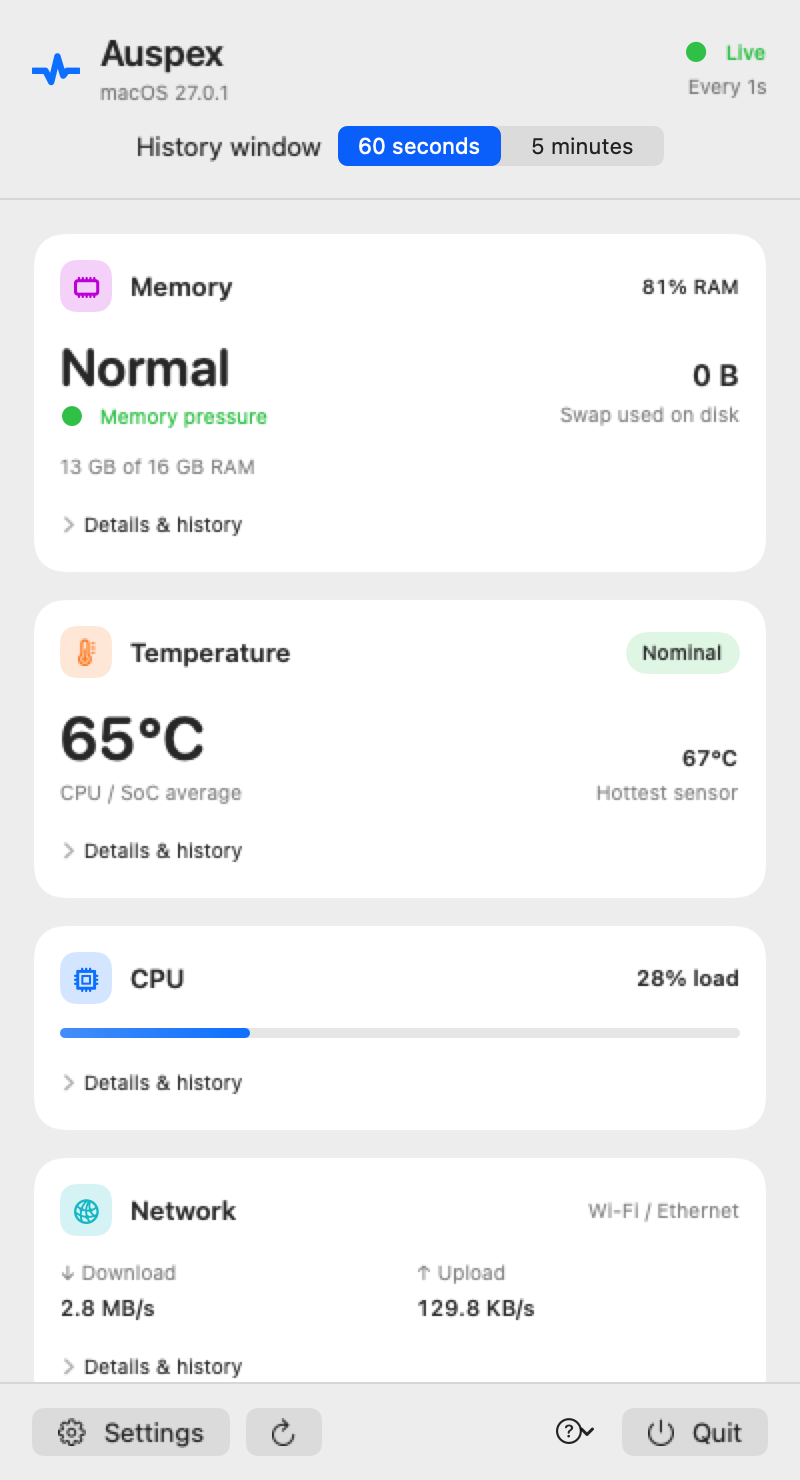
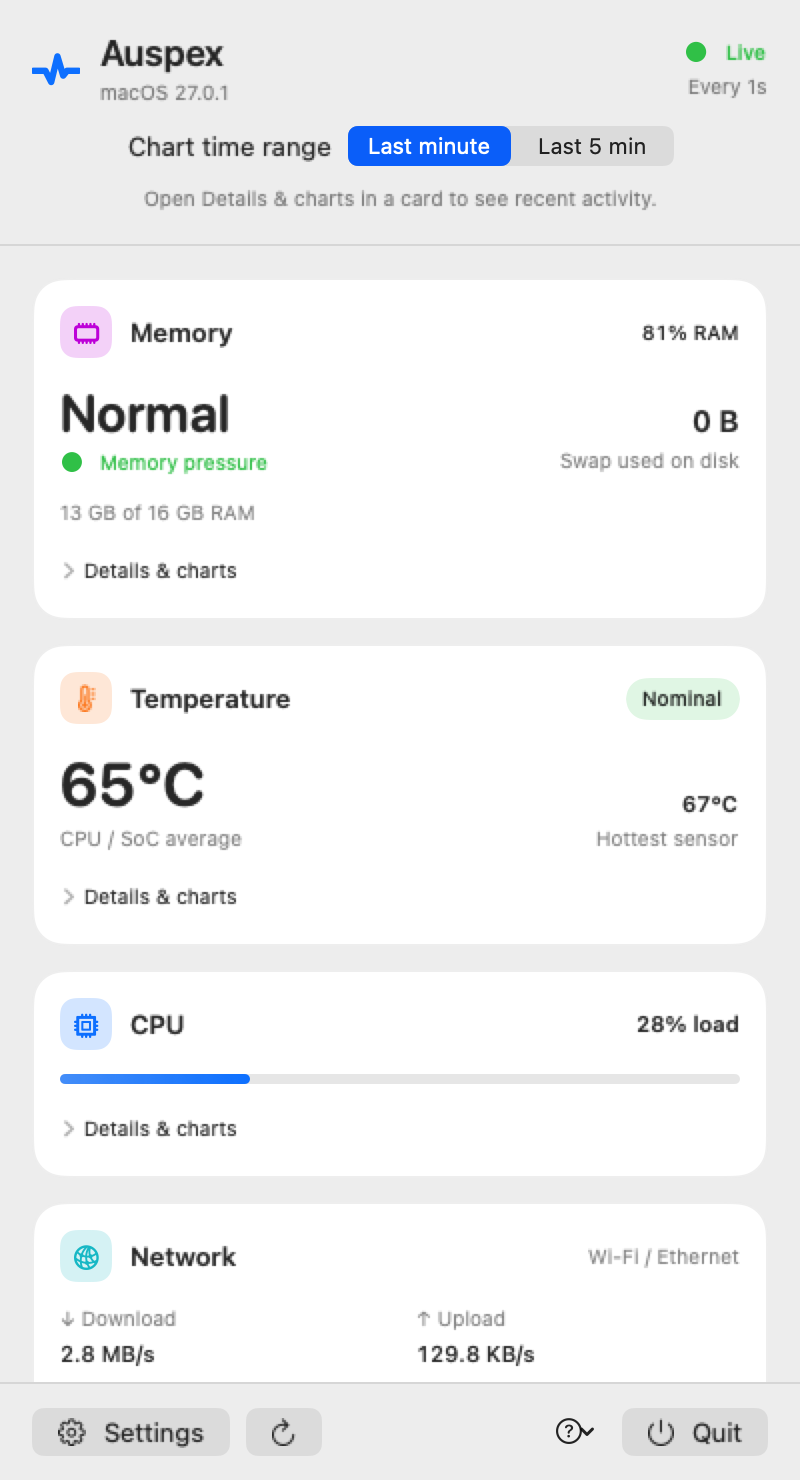
fix: synchronize window appearance and clarify chart controls
The cached menu panel could retain its native dark appearance after
Light was selected in Settings. Apply appearance within each content
root to both its SwiftUI environment and owning native window. Clear
native overrides for Follow macOS, remove competing presentation
preferences, and keep the menu bar label adaptive.

Replace History window with Chart time range and explain the chart
location and collection gaps. Verify live changes in existing panel
and Settings hosts under both inherited appearances, and retain the
steady-versus-refreshing visual regression. Release 1.3.2, build 7.

diff --git a/Tests/AppearanceTests.swift b/Tests/AppearanceTests.swift
@@ -1,0 +1,66 @@
+import AppKit
+import SwiftUI
+
+enum AppearanceTests {
+    @MainActor
+    static func run(monitor: SystemMonitor, preferences: PanelPreferences) {
+        let original = NSApp.appearance
+        defer { NSApp.appearance = original; monitor.appearance = .system }
+
+        for inherited in [NSAppearance.Name.darkAqua, .aqua] {
+            NSApp.appearance = NSAppearance(named: inherited)
+            monitor.appearance = .system
+            // Existing native hosts remain offscreen for this development test.
+            let panel = NSPanel(contentRect: NSRect(x: -10_000, y: -10_000, width: 400, height: 740),
+                                styleMask: [.nonactivatingPanel], backing: .buffered, defer: false)
+            let settings = NSWindow(contentRect: NSRect(x: -10_000, y: -10_000, width: 480, height: 700),
+                                    styleMask: [.titled, .closable], backing: .buffered, defer: false)
+            panel.isReleasedWhenClosed = false
+            settings.isReleasedWhenClosed = false
+            panel.appearance = NSAppearance(named: inherited)
+            settings.appearance = NSAppearance(named: inherited)
+            let host = NSHostingView(rootView: PanelView().environment(monitor).environment(preferences))
+            let settingsHost = NSHostingView(rootView: SettingsView().environment(monitor).environment(preferences))
+            panel.contentView = host
+            settings.contentView = settingsHost
+            defer { panel.close(); settings.close() }
+
+            for mode in [AppAppearance.light, .dark, .light, .system] {
+                monitor.appearance = mode
+                host.layoutSubtreeIfNeeded()
+                settingsHost.layoutSubtreeIfNeeded()
+                RunLoop.main.run(until: Date().addingTimeInterval(0.1))
+                host.layoutSubtreeIfNeeded()
+                settingsHost.layoutSubtreeIfNeeded()
+                let expected: NSAppearance.Name = mode == .system ? inherited : mode == .light ? .aqua : .darkAqua
+                for window in [panel as NSWindow, settings] {
+                    let actual = window.effectiveAppearance.bestMatch(from: [.aqua, .darkAqua])
+                    precondition(actual == expected,
+                                 "Selected \(mode.label), but an existing window still uses \(actual?.rawValue ?? "unknown")")
+                    if mode == .system {
+                        precondition(window.appearance == nil, "Follow macOS must clear the explicit window override")
+                    }
+                }
+                for view in [host as NSView, settingsHost] {
+                    guard let bitmap = view.bitmapImageRepForCachingDisplay(in: view.bounds) else {
+                        preconditionFailure("Appearance test could not capture the content")
+                    }
+                    view.cacheDisplay(in: view.bounds, to: bitmap)
+                    var luminance: CGFloat = 0
+                    var count: CGFloat = 0
+                    for x in stride(from: 0, to: bitmap.pixelsWide, by: max(1, bitmap.pixelsWide / 16)) {
+                        for y in stride(from: 0, to: bitmap.pixelsHigh, by: max(1, bitmap.pixelsHigh / 16)) {
+                            guard let color = bitmap.colorAt(x: x, y: y)?.usingColorSpace(.sRGB) else { continue }
+                            luminance += color.redComponent * 0.2126 + color.greenComponent * 0.7152 + color.blueComponent * 0.0722
+                            count += 1
+                        }
+                    }
+                    let average = luminance / max(1, count)
+                    precondition(expected == .aqua ? average > 0.55 : average < 0.45,
+                                 "Content does not match selected appearance: \(mode.label), brightness \(average)")
+                }
+                print("PASS: existing panel and Settings switch to \(mode.label) (system \(inherited.rawValue))")
+            }
+        }
+    }
+}

diff --git a/Sources/Views/PanelView.swift b/Sources/Views/PanelView.swift
@@ -49,6 +49,7 @@ struct PanelView: View {
             footer
         }
         .frame(width: 400, height: panelHeight)
+        .appWindowAppearance(monitor.appearance)
         .background {
             if reduceTransparency { Color(nsColor: .windowBackgroundColor) }
             else { Rectangle().fill(.regularMaterial) }
@@ -73,11 +74,14 @@ struct PanelView: View {
                     Text(monitor.samplingDescription).font(.caption).foregroundStyle(.secondary)
                 }
             }
-            Picker("History window", selection: $window) {
-                Text("60 seconds").tag(HistoryWindow.minute)
-                Text("5 minutes").tag(HistoryWindow.fiveMinutes)
+            Picker("Chart time range", selection: $window) {
+                Text("Last minute").tag(HistoryWindow.minute)
+                Text("Last 5 min").tag(HistoryWindow.fiveMinutes)
             }.pickerStyle(.segmented).controlSize(.small)
-                .help("Time span for expanded trend charts. Gaps indicate periods without readings.")
+                .help("Choose how far back the charts show. Recording pauses when the panel closes.")
+            Text("Open Details & charts in a card to see recent activity.")
+                .font(.caption).foregroundStyle(.secondary)
+                .fixedSize(horizontal: false, vertical: true)
         }.padding(16)
     }
 
@@ -104,10 +108,17 @@ struct PanelView: View {
     }
 
     private func details<Content: View>(_ card: PanelCard, @ViewBuilder content: @escaping () -> Content) -> some View {
-        DisclosureGroup("Details & history", isExpanded: Binding(get: { expanded.contains(card) }, set: {
+        DisclosureGroup(card == .battery ? "Details" : "Details & charts", isExpanded: Binding(get: { expanded.contains(card) }, set: {
             if $0 { expanded.insert(card) } else { expanded.remove(card) }
         })) {
-            VStack(alignment: .leading, spacing: 12, content: content).padding(.top, 10)
+            VStack(alignment: .leading, spacing: 12) {
+                if card != .battery {
+                    Text("Readings are recorded while this panel is open. Gaps show pauses.")
+                        .font(.caption).foregroundStyle(.secondary)
+                        .fixedSize(horizontal: false, vertical: true)
+                }
+                content()
+            }.padding(.top, 10)
         }.font(.caption)
     }
 

diff --git a/Sources/Views/WindowAppearance.swift b/Sources/Views/WindowAppearance.swift
@@ -1,0 +1,63 @@
+import AppKit
+import SwiftUI
+
+/// MenuBarExtra can keep its native host appearance after a SwiftUI preference
+/// changes. Apply the choice to both the content and its owning native window.
+private struct WindowAppearanceModifier: ViewModifier {
+    let selection: AppAppearance
+    @Environment(\.colorScheme) private var inheritedScheme
+
+    func body(content: Content) -> some View {
+        content
+            .environment(\.colorScheme, selection.colorScheme ?? inheritedScheme)
+            .background(WindowAppearanceBridge(selection: selection))
+    }
+}
+
+private struct WindowAppearanceBridge: NSViewRepresentable {
+    let selection: AppAppearance
+
+    func makeNSView(context: Context) -> AppearanceView {
+        AppearanceView(selection: selection)
+    }
+
+    func updateNSView(_ view: AppearanceView, context: Context) {
+        view.selection = selection
+        view.applyAppearance()
+    }
+
+    final class AppearanceView: NSView {
+        var selection: AppAppearance
+
+        init(selection: AppAppearance) {
+            self.selection = selection
+            super.init(frame: .zero)
+        }
+
+        required init?(coder: NSCoder) { fatalError("init(coder:) is unavailable") }
+
+        override func viewDidMoveToWindow() {
+            super.viewDidMoveToWindow()
+            applyAppearance()
+        }
+
+        func applyAppearance() {
+            let name: NSAppearance.Name?
+            switch selection {
+            case .system: name = nil
+            case .light: name = .aqua
+            case .dark: name = .darkAqua
+            }
+            if appearance?.name != name { appearance = name.flatMap(NSAppearance.init(named:)) }
+            if let window, window.appearance?.name != name {
+                window.appearance = name.flatMap(NSAppearance.init(named:))
+            }
+        }
+    }
+}
+
+extension View {
+    func appWindowAppearance(_ selection: AppAppearance) -> some View {
+        modifier(WindowAppearanceModifier(selection: selection))
+    }
+}

diff --git a/Sources/Views/SettingsView.swift b/Sources/Views/SettingsView.swift
@@ -56,7 +56,7 @@ struct SettingsView: View {
             }
 
             Section {
-                Text("Show the readings you use most and move them into your preferred order. Expand a card in the panel for details and history.")
+                Text("Show the readings you use most and move them into your preferred order. Open Details & charts in a card to see recent activity.")
                     .font(.caption).foregroundStyle(.secondary).fixedSize(horizontal: false, vertical: true)
                 ForEach(preferences.cards) { card in
                     HStack(spacing: 12) {
@@ -119,6 +119,7 @@ struct SettingsView: View {
             }
         }
         .formStyle(.grouped)
+        .appWindowAppearance(monitor.appearance)
         .frame(width: 480, height: min(700, max(360, (NSScreen.main?.visibleFrame.height ?? 800) - 80)))
         .navigationTitle("Auspex Settings")
         .onAppear { syncLoginStatus() }

diff --git a/Tests/VisualTests.swift b/Tests/VisualTests.swift
@@ -85,6 +85,7 @@ struct VisualTests {
                     .environment(\.colorScheme, .light).preferredColorScheme(.light),
                    size: CGSize(width: 400, height: 740), path: "build/verification/storage-classification.png")
         storage.menuBarMetric = .temperature
+        AppearanceTests.run(monitor: storage, preferences: preferences)
         try render(MenuBarLabelView(monitor: storage).font(.system(size: 13))
                     .frame(width: 90, height: 24).environment(\.colorScheme, .dark).preferredColorScheme(.dark),
                    size: CGSize(width: 90, height: 24), path: "build/verification/temperature-menu.png")

diff --git a/Sources/AuspexApp.swift b/Sources/AuspexApp.swift
@@ -30,7 +30,6 @@ struct AuspexApp: App {
             PanelView()
                 .environment(monitor)
                 .environment(panelPreferences)
-                .preferredColorScheme(monitor.appearance.colorScheme)
                 .onAppear { monitor.startActive() }
                 .onDisappear { monitor.goIdle() }
         } label: {
@@ -42,7 +41,6 @@ struct AuspexApp: App {
             SettingsView()
                 .environment(monitor)
                 .environment(panelPreferences)
-                .preferredColorScheme(monitor.appearance.colorScheme)
         }
     }
 }

diff --git a/Sources/Services/ReopenHandler.swift b/Sources/Services/ReopenHandler.swift
@@ -25,8 +25,7 @@ final class ReopenHandler: NSObject, NSApplicationDelegate {
 }
 
 struct ReopenSettingsContent: View {
-    @Environment(SystemMonitor.self) private var monitor
     var body: some View {
-        SettingsView().preferredColorScheme(monitor.appearance.colorScheme)
+        SettingsView()
     }
 }

diff --git a/CHANGELOG.md b/CHANGELOG.md
@@ -7,6 +7,15 @@ and this project adheres to [Semantic Versioning](https://semver.org/spec/v2.0.0
 
 ## [Unreleased]
 
+## [1.3.2] - 2026-10-17
+
+### Fixed
+- Light and Dark selections now update both the menu panel's native window and its SwiftUI content immediately. Follow macOS clears the override on both panel and Settings windows.
+- Added an appearance-switching regression for existing panel and Settings windows under both light and dark inherited appearances.
+
+### Changed
+- Renamed History window to Chart time range, with Last minute / Last 5 min choices and plain explanations of where charts appear and when recording pauses.
+
 ## [1.3.1] - 2026-10-17
 
 ### Fixed
@@ -85,7 +94,8 @@ and this project adheres to [Semantic Versioning](https://semver.org/spec/v2.0.0
 - Frugal polling: fast updates while open, a slow idle tick to keep the menu bar current, and full pause when the inline stat is hidden.
 - All metrics read via built-in macOS APIs — zero third-party dependencies.
 
-[Unreleased]: https://github.com/breadoncee/Auspex/compare/v1.3.1...HEAD
+[Unreleased]: https://github.com/breadoncee/Auspex/compare/v1.3.2...HEAD
+[1.3.2]: https://github.com/breadoncee/Auspex/releases/tag/v1.3.2
 [1.3.1]: https://github.com/breadoncee/Auspex/releases/tag/v1.3.1
 [1.3.0]: https://github.com/breadoncee/Auspex/releases/tag/v1.3.0
 [1.2.0]: https://github.com/breadoncee/Auspex/releases/tag/v1.2.0

diff --git a/README.md b/README.md
@@ -95,7 +95,7 @@ That's it. `make install` copies an optimized build to `/Applications`.
 - **Settings** (in the panel footer): refresh interval, which stat shows inline in the menu
   bar (CPU %, RAM %, temperature, or icon only), card visibility/order, appearance (**Follow macOS**, **Light**, or **Dark**), and **Open at Login**.
 - **Refresh** all readings from the panel footer. CPU and network rates need the next sample after opening or waking.
-- Expand **Details & history** within a card. Choose **60 seconds** or **5 minutes** above the cards.
+- Open **Details & charts** within a card. **Chart time range** chooses how far back the charts show: **Last minute** or **Last 5 min**. Recording pauses while the panel is closed, so those periods appear as gaps.
 - In Settings, reorder/hide cards or restore the defaults. Memory and temperature appear first by default.
 - **Check for Updates** in Settings opens a newer stable release when available.
 - If the menu item is hidden, reopen Auspex to open Settings, then check macOS **System Settings → Menu Bar → Allow in the Menu Bar**. A crowded menu bar can also hide items.
